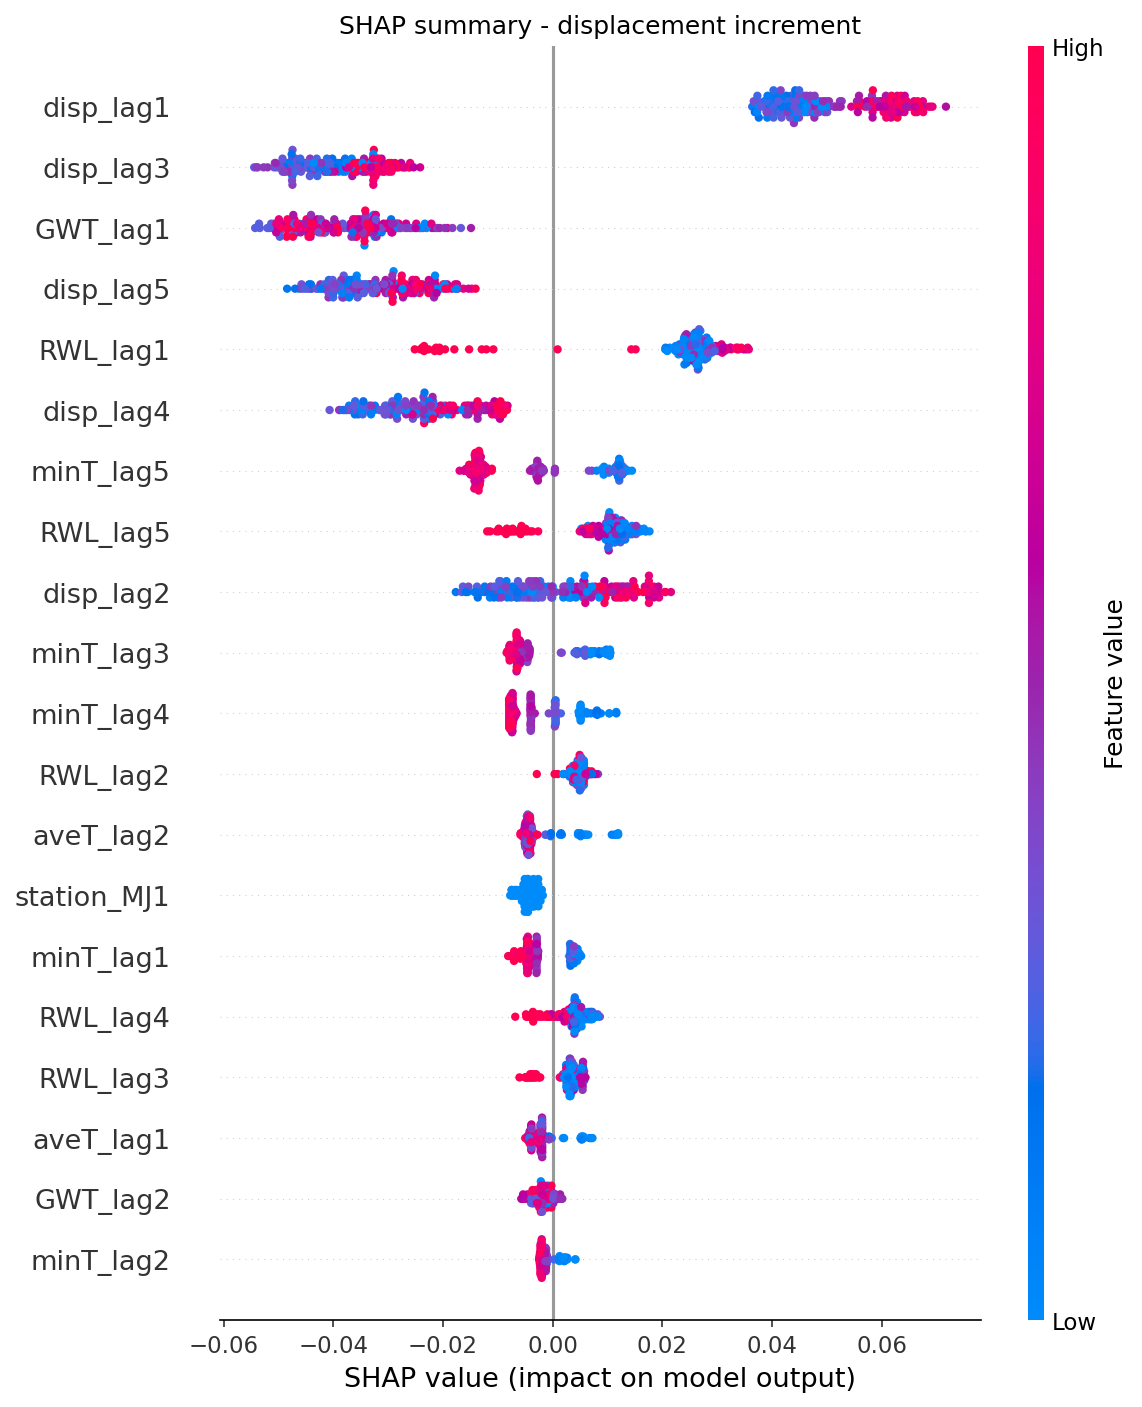
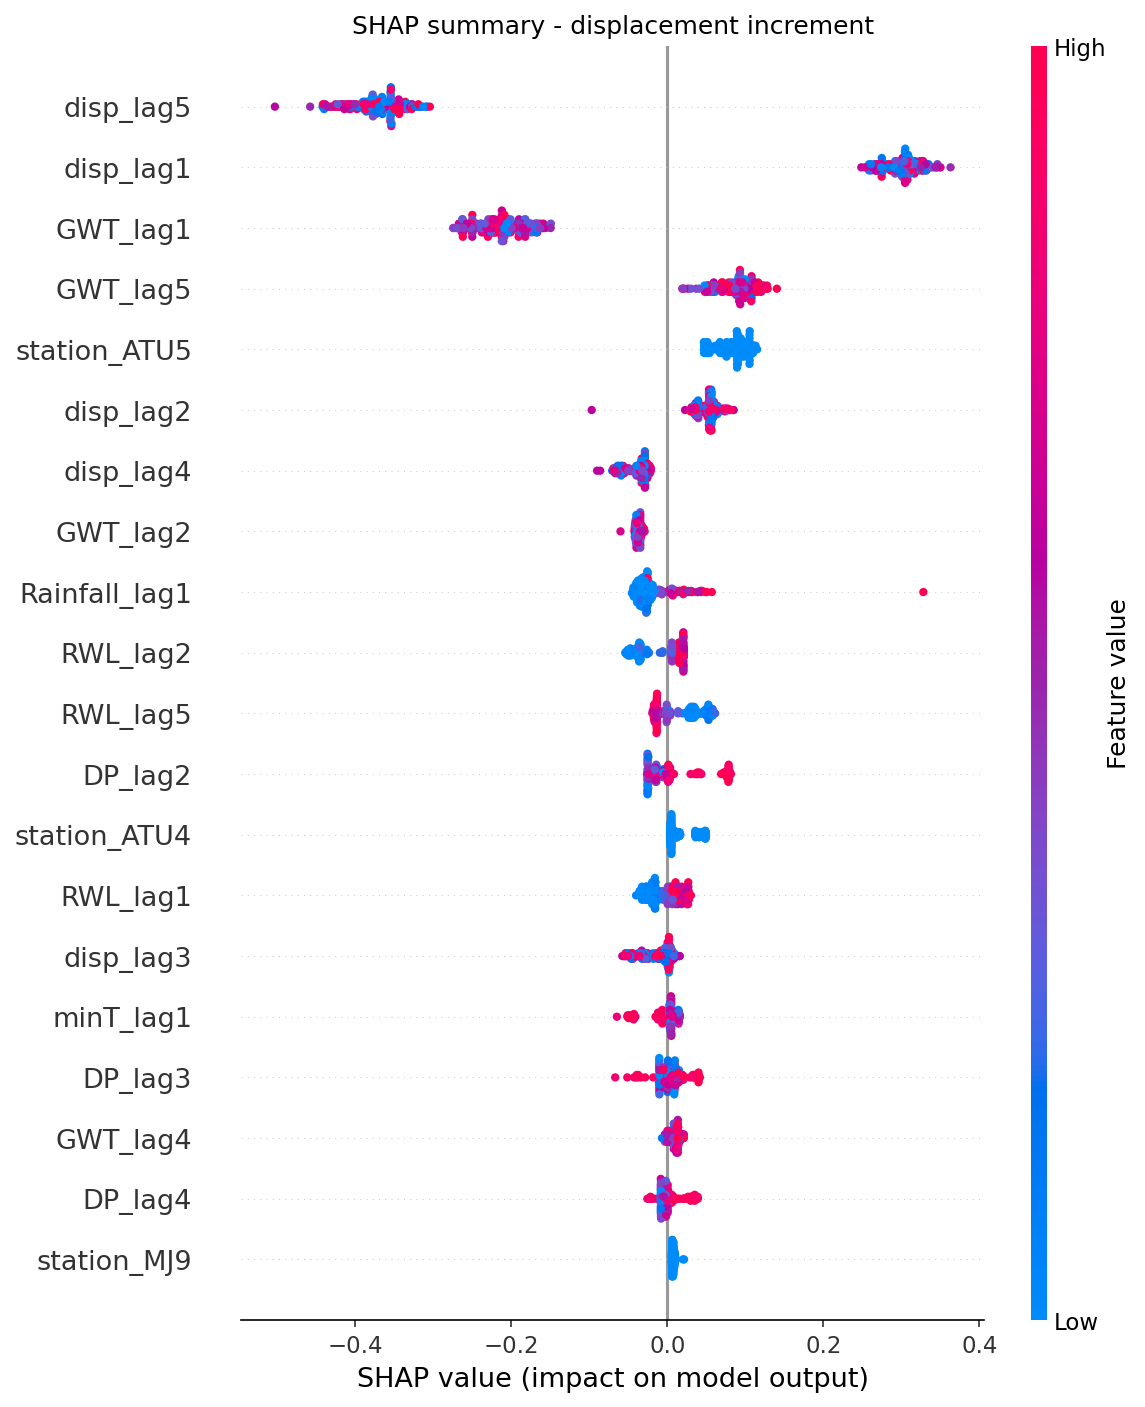
refactor: expand all models and analyses to full 8 monitoring stations

diff --git a/code/ngboost_warn.py b/code/ngboost_warn.py
@@ -32,6 +32,11 @@ WARNING_STATIONS = {
     "MJ9": "MJ9/mm",
     "MJ1": "MJ1/mm",
     "MJ3": "MJ3/mm",
+    "ATU1": "ATU1/mm",
+    "ATU2": "ATU2/mm",
+    "ATU3": "ATU3/mm",
+    "ATU4": "ATU4/mm",
+    "ATU5": "ATU5/mm",
 }
 TRAIN_FRAC = 0.8
 LEVEL_NAMES = ["green", "yellow", "orange", "red"]

diff --git a/code/shap_select.py b/code/shap_select.py
@@ -26,6 +26,11 @@ STATIONS = {
     "MJ9": "MJ9/mm",
     "MJ1": "MJ1/mm",
     "MJ3": "MJ3/mm",
+    "ATU1": "ATU1/mm",
+    "ATU2": "ATU2/mm",
+    "ATU3": "ATU3/mm",
+    "ATU4": "ATU4/mm",
+    "ATU5": "ATU5/mm",
 }
 ENV_COLS = {
     "Rainfall": "Rainfall/mm",